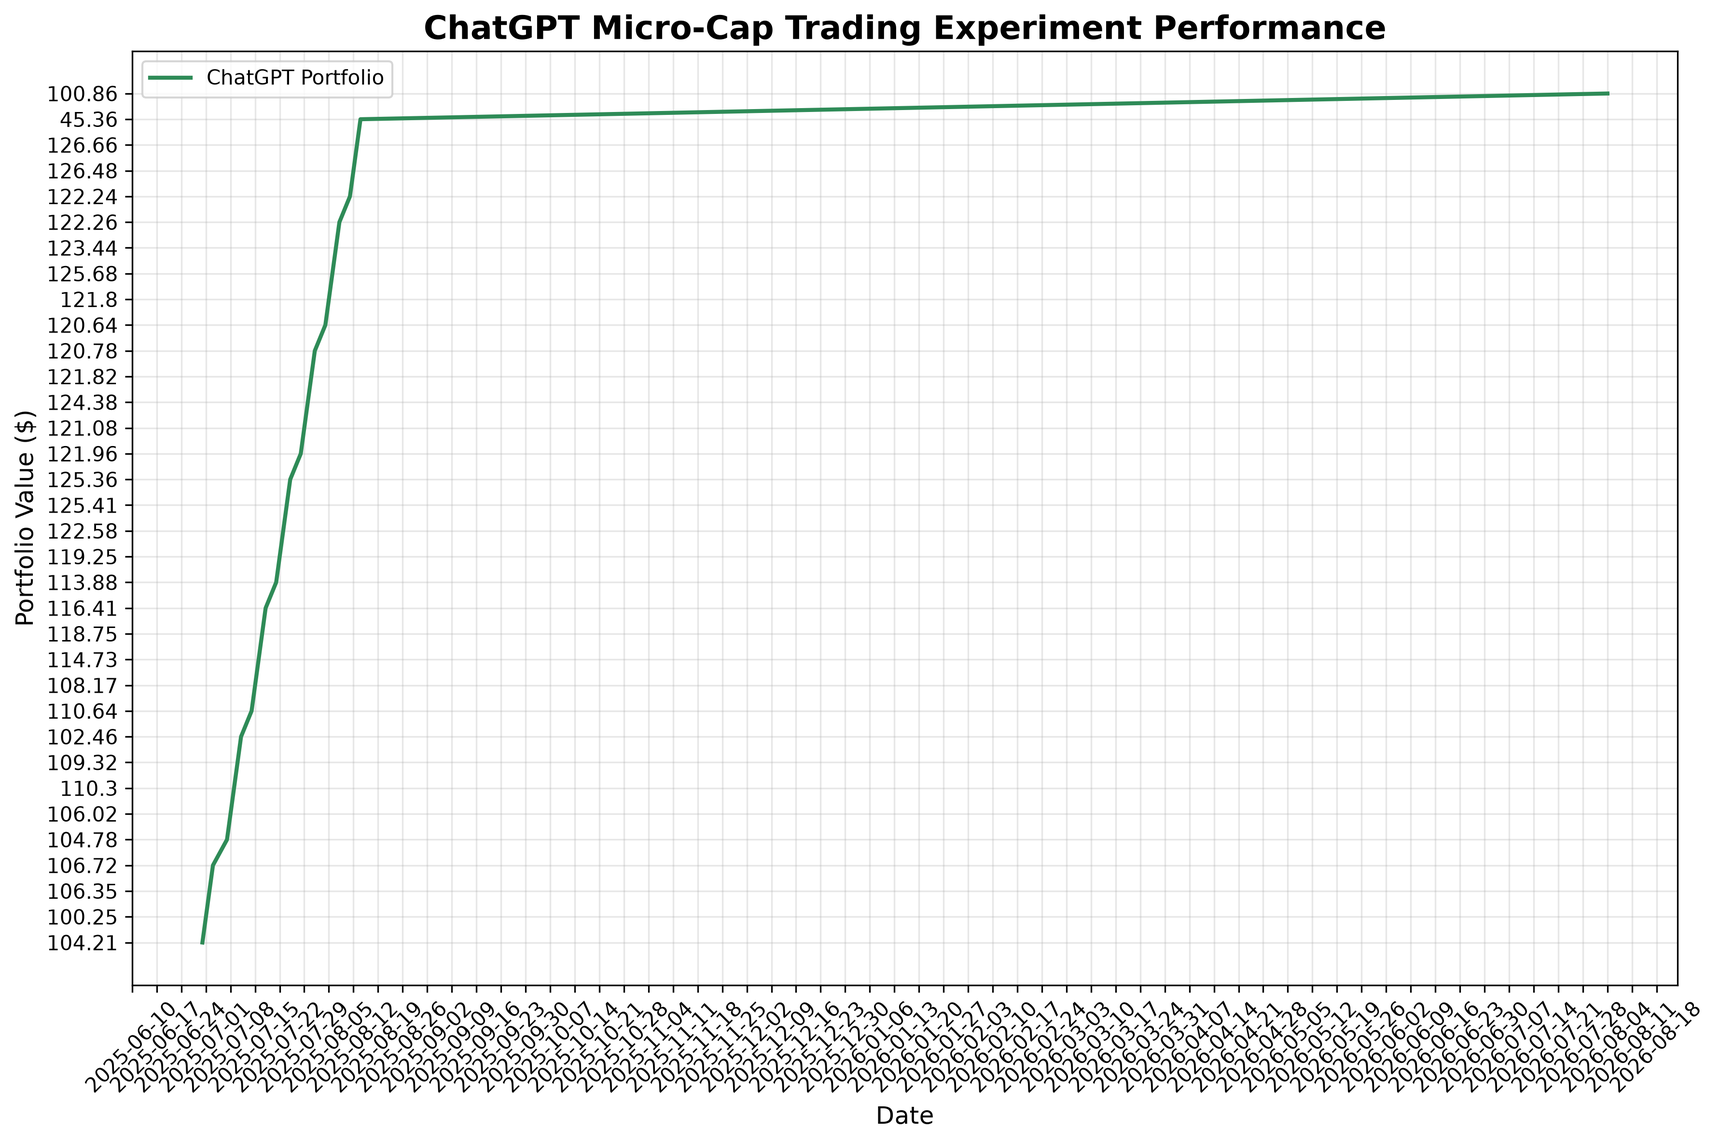
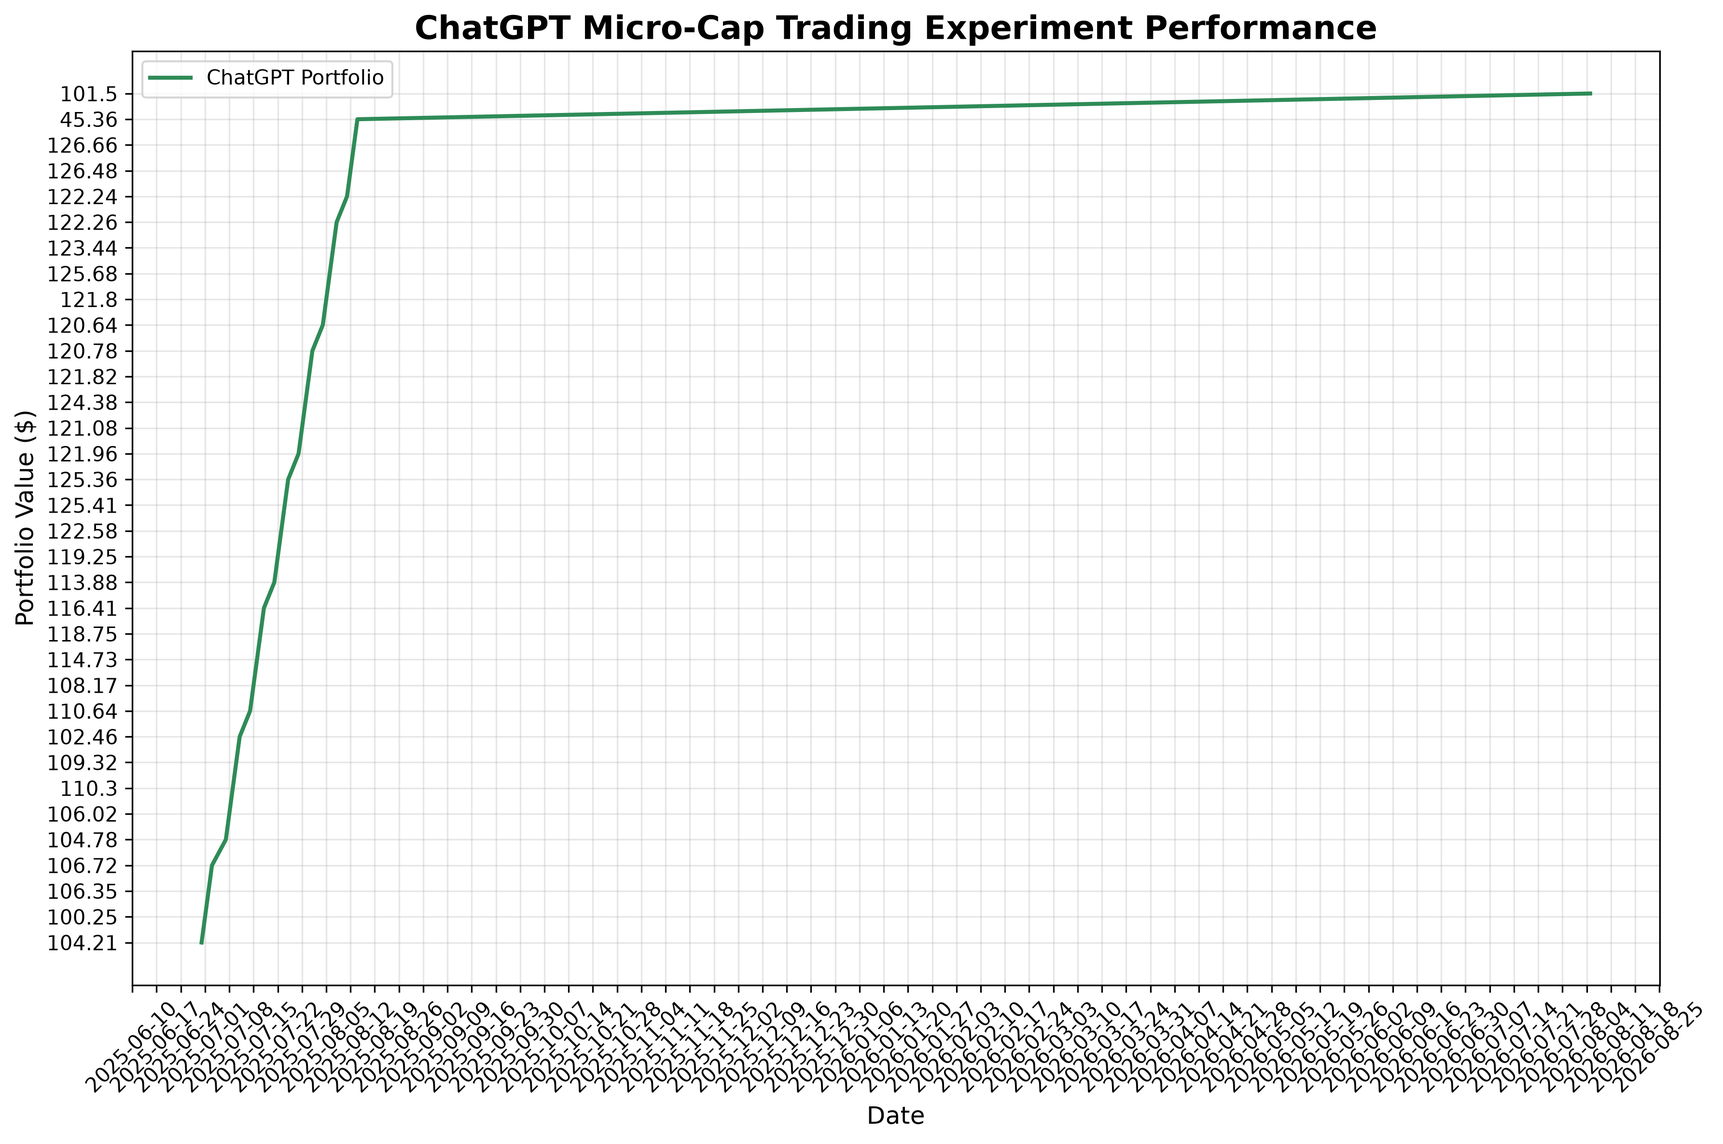
deploy: e15cad030d70fb3fbb51f9df6e22fa70c2f175c0

diff --git a/index.html b/index.html
@@ -105,7 +105,7 @@
                 <div class="stat-label">Total Trades</div>
             </div>
             <div class="stat-card">
-                <div class="stat-value" id="last-updated">2026-08-04</div>
+                <div class="stat-value" id="last-updated">2026-08-05</div>
                 <div class="stat-label">Last Updated</div>
             </div>
         </div>
@@ -160,8 +160,8 @@
     
     <script>
         // Portfolio data
-        const portfolioData = JSON.parse("[{&quot;Date&quot;: &quot;2025-08-11&quot;, &quot;Ticker&quot;: &quot;ABEO&quot;, &quot;Shares&quot;: 4.0, &quot;Buy Price&quot;: 5.77, &quot;Cost Basis&quot;: 23.08, &quot;Stop Loss&quot;: 4.9, &quot;Current Price&quot;: 6.28, &quot;Total Value&quot;: 25.12, &quot;PnL&quot;: 2.04, &quot;Action&quot;: &quot;HOLD&quot;, &quot;Cash Balance&quot;: NaN, &quot;Total Equity&quot;: NaN}, {&quot;Date&quot;: &quot;2025-08-11&quot;, &quot;Ticker&quot;: &quot;ACTU&quot;, &quot;Shares&quot;: 6.0, &quot;Buy Price&quot;: 5.75, &quot;Cost Basis&quot;: 34.5, &quot;Stop Loss&quot;: 4.89, &quot;Current Price&quot;: 8.01, &quot;Total Value&quot;: 48.06, &quot;PnL&quot;: 13.56, &quot;Action&quot;: &quot;HOLD&quot;, &quot;Cash Balance&quot;: NaN, &quot;Total Equity&quot;: NaN}, {&quot;Date&quot;: &quot;2025-08-11&quot;, &quot;Ticker&quot;: &quot;ESPR&quot;, &quot;Shares&quot;: 2.0, &quot;Buy Price&quot;: 1.91, &quot;Cost Basis&quot;: 3.82, &quot;Stop Loss&quot;: 1.6, &quot;Current Price&quot;: 1.85, &quot;Total Value&quot;: 3.7, &quot;PnL&quot;: -0.12, &quot;Action&quot;: &quot;HOLD&quot;, &quot;Cash Balance&quot;: NaN, &quot;Total Equity&quot;: NaN}, {&quot;Date&quot;: &quot;2025-08-11&quot;, &quot;Ticker&quot;: &quot;TOTAL&quot;, &quot;Shares&quot;: NaN, &quot;Buy Price&quot;: NaN, &quot;Cost Basis&quot;: NaN, &quot;Stop Loss&quot;: NaN, &quot;Current Price&quot;: NaN, &quot;Total Value&quot;: 76.88, &quot;PnL&quot;: 15.48, &quot;Action&quot;: NaN, &quot;Cash Balance&quot;: 45.36, &quot;Total Equity&quot;: &quot;122.24&quot;}, {&quot;Date&quot;: &quot;2025-08-12&quot;, &quot;Ticker&quot;: &quot;ABEO&quot;, &quot;Shares&quot;: 4.0, &quot;Buy Price&quot;: 5.77, &quot;Cost Basis&quot;: 23.08, &quot;Stop Loss&quot;: 4.9, &quot;Current Price&quot;: 6.38, &quot;Total Value&quot;: 25.52, &quot;PnL&quot;: 2.44, &quot;Action&quot;: &quot;HOLD&quot;, &quot;Cash Balance&quot;: NaN, &quot;Total Equity&quot;: NaN}, {&quot;Date&quot;: &quot;2025-08-12&quot;, &quot;Ticker&quot;: &quot;ACTU&quot;, &quot;Shares&quot;: 6.0, &quot;Buy Price&quot;: 5.75, &quot;Cost Basis&quot;: 34.5, &quot;Stop Loss&quot;: 4.89, &quot;Current Price&quot;: 8.67, &quot;Total Value&quot;: 52.02, &quot;PnL&quot;: 17.52, &quot;Action&quot;: &quot;HOLD&quot;, &quot;Cash Balance&quot;: NaN, &quot;Total Equity&quot;: NaN}, {&quot;Date&quot;: &quot;2025-08-12&quot;, &quot;Ticker&quot;: &quot;ESPR&quot;, &quot;Shares&quot;: 2.0, &quot;Buy Price&quot;: 1.91, &quot;Cost Basis&quot;: 3.82, &quot;Stop Loss&quot;: 1.6, &quot;Current Price&quot;: 1.79, &quot;Total Value&quot;: 3.58, &quot;PnL&quot;: -0.24, &quot;Action&quot;: &quot;HOLD&quot;, &quot;Cash Balance&quot;: NaN, &quot;Total Equity&quot;: NaN}, {&quot;Date&quot;: &quot;2025-08-12&quot;, &quot;Ticker&quot;: &quot;TOTAL&quot;, &quot;Shares&quot;: NaN, &quot;Buy Price&quot;: NaN, &quot;Cost Basis&quot;: NaN, &quot;Stop Loss&quot;: NaN, &quot;Current Price&quot;: NaN, &quot;Total Value&quot;: 81.12, &quot;PnL&quot;: 19.72, &quot;Action&quot;: NaN, &quot;Cash Balance&quot;: 45.36, &quot;Total Equity&quot;: &quot;126.48&quot;}, {&quot;Date&quot;: &quot;2025-08-13&quot;, &quot;Ticker&quot;: &quot;ABEO&quot;, &quot;Shares&quot;: 4.0, &quot;Buy Price&quot;: 5.77, &quot;Cost Basis&quot;: 23.08, &quot;Stop Loss&quot;: 4.9, &quot;Current Price&quot;: 6.56, &quot;Total Value&quot;: 26.24, &quot;PnL&quot;: 3.16, &quot;Action&quot;: &quot;HOLD&quot;, &quot;Cash Balance&quot;: NaN, &quot;Total Equity&quot;: NaN}, {&quot;Date&quot;: &quot;2025-08-13&quot;, &quot;Ticker&quot;: &quot;ACTU&quot;, &quot;Shares&quot;: 6.0, &quot;Buy Price&quot;: 5.75, &quot;Cost Basis&quot;: 34.5, &quot;Stop Loss&quot;: 4.89, &quot;Current Price&quot;: 8.53, &quot;Total Value&quot;: 51.18, &quot;PnL&quot;: 16.68, &quot;Action&quot;: &quot;HOLD&quot;, &quot;Cash Balance&quot;: NaN, &quot;Total Equity&quot;: NaN}, {&quot;Date&quot;: &quot;2025-08-13&quot;, &quot;Ticker&quot;: &quot;ESPR&quot;, &quot;Shares&quot;: 2.0, &quot;Buy Price&quot;: 1.91, &quot;Cost Basis&quot;: 3.82, &quot;Stop Loss&quot;: 1.6, &quot;Current Price&quot;: 1.94, &quot;Total Value&quot;: 3.88, &quot;PnL&quot;: 0.06, &quot;Action&quot;: &quot;HOLD&quot;, &quot;Cash Balance&quot;: NaN, &quot;Total Equity&quot;: NaN}, {&quot;Date&quot;: &quot;2025-08-13&quot;, &quot;Ticker&quot;: &quot;TOTAL&quot;, &quot;Shares&quot;: NaN, &quot;Buy Price&quot;: NaN, &quot;Cost Basis&quot;: NaN, &quot;Stop Loss&quot;: NaN, &quot;Current Price&quot;: NaN, &quot;Total Value&quot;: 81.3, &quot;PnL&quot;: 19.9, &quot;Action&quot;: NaN, &quot;Cash Balance&quot;: 45.36, &quot;Total Equity&quot;: &quot;126.66&quot;}, {&quot;Date&quot;: &quot;2025-08-14&quot;, &quot;Ticker&quot;: &quot;ABEO&quot;, &quot;Shares&quot;: 4.0, &quot;Buy Price&quot;: 5.77, &quot;Cost Basis&quot;: 23.08, &quot;Stop Loss&quot;: 4.9, &quot;Current Price&quot;: NaN, &quot;Total Value&quot;: NaN, &quot;PnL&quot;: NaN, &quot;Action&quot;: &quot;NO DATA&quot;, &quot;Cash Balance&quot;: NaN, &quot;Total Equity&quot;: NaN}, {&quot;Date&quot;: &quot;2025-08-14&quot;, &quot;Ticker&quot;: &quot;ACTU&quot;, &quot;Shares&quot;: 6.0, &quot;Buy Price&quot;: 5.75, &quot;Cost Basis&quot;: 34.5, &quot;Stop Loss&quot;: 4.89, &quot;Current Price&quot;: NaN, &quot;Total Value&quot;: NaN, &quot;PnL&quot;: NaN, &quot;Action&quot;: &quot;NO DATA&quot;, &quot;Cash Balance&quot;: NaN, &quot;Total Equity&quot;: NaN}, {&quot;Date&quot;: &quot;2025-08-14&quot;, &quot;Ticker&quot;: &quot;ESPR&quot;, &quot;Shares&quot;: 2.0, &quot;Buy Price&quot;: 1.91, &quot;Cost Basis&quot;: 3.82, &quot;Stop Loss&quot;: 1.6, &quot;Current Price&quot;: NaN, &quot;Total Value&quot;: NaN, &quot;PnL&quot;: NaN, &quot;Action&quot;: &quot;NO DATA&quot;, &quot;Cash Balance&quot;: NaN, &quot;Total Equity&quot;: NaN}, {&quot;Date&quot;: &quot;2025-08-14&quot;, &quot;Ticker&quot;: &quot;TOTAL&quot;, &quot;Shares&quot;: NaN, &quot;Buy Price&quot;: NaN, &quot;Cost Basis&quot;: NaN, &quot;Stop Loss&quot;: NaN, &quot;Current Price&quot;: NaN, &quot;Total Value&quot;: 0.0, &quot;PnL&quot;: 0.0, &quot;Action&quot;: NaN, &quot;Cash Balance&quot;: 45.36, &quot;Total Equity&quot;: &quot;45.36&quot;}, {&quot;Date&quot;: &quot;2026-08-04&quot;, &quot;Ticker&quot;: &quot;ABEO&quot;, &quot;Shares&quot;: 4.0, &quot;Buy Price&quot;: 5.77, &quot;Cost Basis&quot;: 23.08, &quot;Stop Loss&quot;: 4.9, &quot;Current Price&quot;: 6.54, &quot;Total Value&quot;: 26.16, &quot;PnL&quot;: 3.08, &quot;Action&quot;: &quot;HOLD&quot;, &quot;Cash Balance&quot;: NaN, &quot;Total Equity&quot;: NaN}, {&quot;Date&quot;: &quot;2026-08-04&quot;, &quot;Ticker&quot;: &quot;ACTU&quot;, &quot;Shares&quot;: 6.0, &quot;Buy Price&quot;: 5.75, &quot;Cost Basis&quot;: 34.5, &quot;Stop Loss&quot;: 4.89, &quot;Current Price&quot;: 4.89, &quot;Total Value&quot;: 29.34, &quot;PnL&quot;: -5.16, &quot;Action&quot;: &quot;SELL - Stop Loss Triggered&quot;, &quot;Cash Balance&quot;: NaN, &quot;Total Equity&quot;: NaN}, {&quot;Date&quot;: &quot;2026-08-04&quot;, &quot;Ticker&quot;: &quot;ESPR&quot;, &quot;Shares&quot;: 2.0, &quot;Buy Price&quot;: 1.91, &quot;Cost Basis&quot;: 3.82, &quot;Stop Loss&quot;: 1.6, &quot;Current Price&quot;: NaN, &quot;Total Value&quot;: NaN, &quot;PnL&quot;: NaN, &quot;Action&quot;: &quot;NO DATA&quot;, &quot;Cash Balance&quot;: NaN, &quot;Total Equity&quot;: NaN}, {&quot;Date&quot;: &quot;2026-08-04&quot;, &quot;Ticker&quot;: &quot;TOTAL&quot;, &quot;Shares&quot;: NaN, &quot;Buy Price&quot;: NaN, &quot;Cost Basis&quot;: NaN, &quot;Stop Loss&quot;: NaN, &quot;Current Price&quot;: NaN, &quot;Total Value&quot;: 26.16, &quot;PnL&quot;: 3.08, &quot;Action&quot;: NaN, &quot;Cash Balance&quot;: 74.7, &quot;Total Equity&quot;: &quot;100.86&quot;}]");
-        const tradeData = JSON.parse("[{&quot;Date&quot;: &quot;2025-07-08&quot;, &quot;Ticker&quot;: &quot;IINN&quot;, &quot;Shares Bought&quot;: 20.0, &quot;Buy Price&quot;: 1.5, &quot;Cost Basis&quot;: 30.0, &quot;PnL&quot;: 0.0, &quot;Reason&quot;: &quot;MANUAL BUY - New position&quot;, &quot;Shares Sold&quot;: NaN, &quot;Sell Price&quot;: NaN}, {&quot;Date&quot;: &quot;2025-07-21&quot;, &quot;Ticker&quot;: &quot;CADL&quot;, &quot;Shares Bought&quot;: NaN, &quot;Buy Price&quot;: NaN, &quot;Cost Basis&quot;: 25.2, &quot;PnL&quot;: 8.5, &quot;Reason&quot;: &quot;MANUAL SELL - GAIN CAPITAL FOR ACTU&quot;, &quot;Shares Sold&quot;: 5.0, &quot;Sell Price&quot;: 6.59}, {&quot;Date&quot;: &quot;2025-07-21&quot;, &quot;Ticker&quot;: &quot;ACTU&quot;, &quot;Shares Bought&quot;: 6.0, &quot;Buy Price&quot;: 5.75, &quot;Cost Basis&quot;: 34.5, &quot;PnL&quot;: 0.0, &quot;Reason&quot;: &quot;MANUAL BUY - New position&quot;, &quot;Shares Sold&quot;: NaN, &quot;Sell Price&quot;: NaN}, {&quot;Date&quot;: &quot;2025-07-28&quot;, &quot;Ticker&quot;: &quot;IINN&quot;, &quot;Shares Bought&quot;: NaN, &quot;Buy Price&quot;: NaN, &quot;Cost Basis&quot;: 9.0, &quot;PnL&quot;: -0.5400000000000009, &quot;Reason&quot;: &quot;MANUAL SELL - POSITION REDUCTION&quot;, &quot;Shares Sold&quot;: 6.0, &quot;Sell Price&quot;: 1.41}, {&quot;Date&quot;: &quot;2025-07-29&quot;, &quot;Ticker&quot;: &quot;AZTR&quot;, &quot;Shares Bought&quot;: NaN, &quot;Buy Price&quot;: NaN, &quot;Cost Basis&quot;: 13.75, &quot;PnL&quot;: -2.75, &quot;Reason&quot;: &quot;MANUAL SELL - DILUTION RISK&quot;, &quot;Shares Sold&quot;: 55.0, &quot;Sell Price&quot;: 0.2}, {&quot;Date&quot;: &quot;2025-08-01&quot;, &quot;Ticker&quot;: &quot;IINN&quot;, &quot;Shares Bought&quot;: 2.0, &quot;Buy Price&quot;: 1.74, &quot;Cost Basis&quot;: 3.48, &quot;PnL&quot;: 0.0, &quot;Reason&quot;: &quot;MANUAL BUY - New position&quot;, &quot;Shares Sold&quot;: NaN, &quot;Sell Price&quot;: NaN}, {&quot;Date&quot;: &quot;2025-08-01&quot;, &quot;Ticker&quot;: &quot;ABEO&quot;, &quot;Shares Bought&quot;: NaN, &quot;Buy Price&quot;: NaN, &quot;Cost Basis&quot;: 11.54, &quot;PnL&quot;: 1.200000000000001, &quot;Reason&quot;: &quot;MANUAL SELL - TRIM AFTER SUPPORT LOSS&quot;, &quot;Shares Sold&quot;: 2.0, &quot;Sell Price&quot;: 6.37}, {&quot;Date&quot;: &quot;2025-08-07&quot;, &quot;Ticker&quot;: &quot;ESPR&quot;, &quot;Shares Bought&quot;: 2.0, &quot;Buy Price&quot;: 1.91, &quot;Cost Basis&quot;: 3.82, &quot;PnL&quot;: 0.0, &quot;Reason&quot;: &quot;MANUAL BUY - New position&quot;, &quot;Shares Sold&quot;: NaN, &quot;Sell Price&quot;: NaN}, {&quot;Date&quot;: &quot;2025-08-08&quot;, &quot;Ticker&quot;: &quot;IINN&quot;, &quot;Shares Bought&quot;: NaN, &quot;Buy Price&quot;: NaN, &quot;Cost Basis&quot;: 1.5, &quot;PnL&quot;: -6.4, &quot;Reason&quot;: &quot;AUTOMATED SELL - STOPLOSS TRIGGERED&quot;, &quot;Shares Sold&quot;: 16.0, &quot;Sell Price&quot;: 1.1}, {&quot;Date&quot;: &quot;2026-08-04&quot;, &quot;Ticker&quot;: &quot;ACTU&quot;, &quot;Shares Bought&quot;: NaN, &quot;Buy Price&quot;: NaN, &quot;Cost Basis&quot;: 5.75, &quot;PnL&quot;: -5.16, &quot;Reason&quot;: &quot;AUTOMATED SELL - STOPLOSS TRIGGERED&quot;, &quot;Shares Sold&quot;: 6.0, &quot;Sell Price&quot;: 4.89}]");
+        const portfolioData = JSON.parse("[{&quot;Date&quot;: &quot;2025-08-11&quot;, &quot;Ticker&quot;: &quot;ABEO&quot;, &quot;Shares&quot;: 4.0, &quot;Buy Price&quot;: 5.77, &quot;Cost Basis&quot;: 23.08, &quot;Stop Loss&quot;: 4.9, &quot;Current Price&quot;: 6.28, &quot;Total Value&quot;: 25.12, &quot;PnL&quot;: 2.04, &quot;Action&quot;: &quot;HOLD&quot;, &quot;Cash Balance&quot;: NaN, &quot;Total Equity&quot;: NaN}, {&quot;Date&quot;: &quot;2025-08-11&quot;, &quot;Ticker&quot;: &quot;ACTU&quot;, &quot;Shares&quot;: 6.0, &quot;Buy Price&quot;: 5.75, &quot;Cost Basis&quot;: 34.5, &quot;Stop Loss&quot;: 4.89, &quot;Current Price&quot;: 8.01, &quot;Total Value&quot;: 48.06, &quot;PnL&quot;: 13.56, &quot;Action&quot;: &quot;HOLD&quot;, &quot;Cash Balance&quot;: NaN, &quot;Total Equity&quot;: NaN}, {&quot;Date&quot;: &quot;2025-08-11&quot;, &quot;Ticker&quot;: &quot;ESPR&quot;, &quot;Shares&quot;: 2.0, &quot;Buy Price&quot;: 1.91, &quot;Cost Basis&quot;: 3.82, &quot;Stop Loss&quot;: 1.6, &quot;Current Price&quot;: 1.85, &quot;Total Value&quot;: 3.7, &quot;PnL&quot;: -0.12, &quot;Action&quot;: &quot;HOLD&quot;, &quot;Cash Balance&quot;: NaN, &quot;Total Equity&quot;: NaN}, {&quot;Date&quot;: &quot;2025-08-11&quot;, &quot;Ticker&quot;: &quot;TOTAL&quot;, &quot;Shares&quot;: NaN, &quot;Buy Price&quot;: NaN, &quot;Cost Basis&quot;: NaN, &quot;Stop Loss&quot;: NaN, &quot;Current Price&quot;: NaN, &quot;Total Value&quot;: 76.88, &quot;PnL&quot;: 15.48, &quot;Action&quot;: NaN, &quot;Cash Balance&quot;: 45.36, &quot;Total Equity&quot;: &quot;122.24&quot;}, {&quot;Date&quot;: &quot;2025-08-12&quot;, &quot;Ticker&quot;: &quot;ABEO&quot;, &quot;Shares&quot;: 4.0, &quot;Buy Price&quot;: 5.77, &quot;Cost Basis&quot;: 23.08, &quot;Stop Loss&quot;: 4.9, &quot;Current Price&quot;: 6.38, &quot;Total Value&quot;: 25.52, &quot;PnL&quot;: 2.44, &quot;Action&quot;: &quot;HOLD&quot;, &quot;Cash Balance&quot;: NaN, &quot;Total Equity&quot;: NaN}, {&quot;Date&quot;: &quot;2025-08-12&quot;, &quot;Ticker&quot;: &quot;ACTU&quot;, &quot;Shares&quot;: 6.0, &quot;Buy Price&quot;: 5.75, &quot;Cost Basis&quot;: 34.5, &quot;Stop Loss&quot;: 4.89, &quot;Current Price&quot;: 8.67, &quot;Total Value&quot;: 52.02, &quot;PnL&quot;: 17.52, &quot;Action&quot;: &quot;HOLD&quot;, &quot;Cash Balance&quot;: NaN, &quot;Total Equity&quot;: NaN}, {&quot;Date&quot;: &quot;2025-08-12&quot;, &quot;Ticker&quot;: &quot;ESPR&quot;, &quot;Shares&quot;: 2.0, &quot;Buy Price&quot;: 1.91, &quot;Cost Basis&quot;: 3.82, &quot;Stop Loss&quot;: 1.6, &quot;Current Price&quot;: 1.79, &quot;Total Value&quot;: 3.58, &quot;PnL&quot;: -0.24, &quot;Action&quot;: &quot;HOLD&quot;, &quot;Cash Balance&quot;: NaN, &quot;Total Equity&quot;: NaN}, {&quot;Date&quot;: &quot;2025-08-12&quot;, &quot;Ticker&quot;: &quot;TOTAL&quot;, &quot;Shares&quot;: NaN, &quot;Buy Price&quot;: NaN, &quot;Cost Basis&quot;: NaN, &quot;Stop Loss&quot;: NaN, &quot;Current Price&quot;: NaN, &quot;Total Value&quot;: 81.12, &quot;PnL&quot;: 19.72, &quot;Action&quot;: NaN, &quot;Cash Balance&quot;: 45.36, &quot;Total Equity&quot;: &quot;126.48&quot;}, {&quot;Date&quot;: &quot;2025-08-13&quot;, &quot;Ticker&quot;: &quot;ABEO&quot;, &quot;Shares&quot;: 4.0, &quot;Buy Price&quot;: 5.77, &quot;Cost Basis&quot;: 23.08, &quot;Stop Loss&quot;: 4.9, &quot;Current Price&quot;: 6.56, &quot;Total Value&quot;: 26.24, &quot;PnL&quot;: 3.16, &quot;Action&quot;: &quot;HOLD&quot;, &quot;Cash Balance&quot;: NaN, &quot;Total Equity&quot;: NaN}, {&quot;Date&quot;: &quot;2025-08-13&quot;, &quot;Ticker&quot;: &quot;ACTU&quot;, &quot;Shares&quot;: 6.0, &quot;Buy Price&quot;: 5.75, &quot;Cost Basis&quot;: 34.5, &quot;Stop Loss&quot;: 4.89, &quot;Current Price&quot;: 8.53, &quot;Total Value&quot;: 51.18, &quot;PnL&quot;: 16.68, &quot;Action&quot;: &quot;HOLD&quot;, &quot;Cash Balance&quot;: NaN, &quot;Total Equity&quot;: NaN}, {&quot;Date&quot;: &quot;2025-08-13&quot;, &quot;Ticker&quot;: &quot;ESPR&quot;, &quot;Shares&quot;: 2.0, &quot;Buy Price&quot;: 1.91, &quot;Cost Basis&quot;: 3.82, &quot;Stop Loss&quot;: 1.6, &quot;Current Price&quot;: 1.94, &quot;Total Value&quot;: 3.88, &quot;PnL&quot;: 0.06, &quot;Action&quot;: &quot;HOLD&quot;, &quot;Cash Balance&quot;: NaN, &quot;Total Equity&quot;: NaN}, {&quot;Date&quot;: &quot;2025-08-13&quot;, &quot;Ticker&quot;: &quot;TOTAL&quot;, &quot;Shares&quot;: NaN, &quot;Buy Price&quot;: NaN, &quot;Cost Basis&quot;: NaN, &quot;Stop Loss&quot;: NaN, &quot;Current Price&quot;: NaN, &quot;Total Value&quot;: 81.3, &quot;PnL&quot;: 19.9, &quot;Action&quot;: NaN, &quot;Cash Balance&quot;: 45.36, &quot;Total Equity&quot;: &quot;126.66&quot;}, {&quot;Date&quot;: &quot;2025-08-14&quot;, &quot;Ticker&quot;: &quot;ABEO&quot;, &quot;Shares&quot;: 4.0, &quot;Buy Price&quot;: 5.77, &quot;Cost Basis&quot;: 23.08, &quot;Stop Loss&quot;: 4.9, &quot;Current Price&quot;: NaN, &quot;Total Value&quot;: NaN, &quot;PnL&quot;: NaN, &quot;Action&quot;: &quot;NO DATA&quot;, &quot;Cash Balance&quot;: NaN, &quot;Total Equity&quot;: NaN}, {&quot;Date&quot;: &quot;2025-08-14&quot;, &quot;Ticker&quot;: &quot;ACTU&quot;, &quot;Shares&quot;: 6.0, &quot;Buy Price&quot;: 5.75, &quot;Cost Basis&quot;: 34.5, &quot;Stop Loss&quot;: 4.89, &quot;Current Price&quot;: NaN, &quot;Total Value&quot;: NaN, &quot;PnL&quot;: NaN, &quot;Action&quot;: &quot;NO DATA&quot;, &quot;Cash Balance&quot;: NaN, &quot;Total Equity&quot;: NaN}, {&quot;Date&quot;: &quot;2025-08-14&quot;, &quot;Ticker&quot;: &quot;ESPR&quot;, &quot;Shares&quot;: 2.0, &quot;Buy Price&quot;: 1.91, &quot;Cost Basis&quot;: 3.82, &quot;Stop Loss&quot;: 1.6, &quot;Current Price&quot;: NaN, &quot;Total Value&quot;: NaN, &quot;PnL&quot;: NaN, &quot;Action&quot;: &quot;NO DATA&quot;, &quot;Cash Balance&quot;: NaN, &quot;Total Equity&quot;: NaN}, {&quot;Date&quot;: &quot;2025-08-14&quot;, &quot;Ticker&quot;: &quot;TOTAL&quot;, &quot;Shares&quot;: NaN, &quot;Buy Price&quot;: NaN, &quot;Cost Basis&quot;: NaN, &quot;Stop Loss&quot;: NaN, &quot;Current Price&quot;: NaN, &quot;Total Value&quot;: 0.0, &quot;PnL&quot;: 0.0, &quot;Action&quot;: NaN, &quot;Cash Balance&quot;: 45.36, &quot;Total Equity&quot;: &quot;45.36&quot;}, {&quot;Date&quot;: &quot;2026-08-05&quot;, &quot;Ticker&quot;: &quot;ABEO&quot;, &quot;Shares&quot;: 4.0, &quot;Buy Price&quot;: 5.77, &quot;Cost Basis&quot;: 23.08, &quot;Stop Loss&quot;: 4.9, &quot;Current Price&quot;: 6.7, &quot;Total Value&quot;: 26.8, &quot;PnL&quot;: 3.72, &quot;Action&quot;: &quot;HOLD&quot;, &quot;Cash Balance&quot;: NaN, &quot;Total Equity&quot;: NaN}, {&quot;Date&quot;: &quot;2026-08-05&quot;, &quot;Ticker&quot;: &quot;ACTU&quot;, &quot;Shares&quot;: 6.0, &quot;Buy Price&quot;: 5.75, &quot;Cost Basis&quot;: 34.5, &quot;Stop Loss&quot;: 4.89, &quot;Current Price&quot;: 4.89, &quot;Total Value&quot;: 29.34, &quot;PnL&quot;: -5.16, &quot;Action&quot;: &quot;SELL - Stop Loss Triggered&quot;, &quot;Cash Balance&quot;: NaN, &quot;Total Equity&quot;: NaN}, {&quot;Date&quot;: &quot;2026-08-05&quot;, &quot;Ticker&quot;: &quot;ESPR&quot;, &quot;Shares&quot;: 2.0, &quot;Buy Price&quot;: 1.91, &quot;Cost Basis&quot;: 3.82, &quot;Stop Loss&quot;: 1.6, &quot;Current Price&quot;: NaN, &quot;Total Value&quot;: NaN, &quot;PnL&quot;: NaN, &quot;Action&quot;: &quot;NO DATA&quot;, &quot;Cash Balance&quot;: NaN, &quot;Total Equity&quot;: NaN}, {&quot;Date&quot;: &quot;2026-08-05&quot;, &quot;Ticker&quot;: &quot;TOTAL&quot;, &quot;Shares&quot;: NaN, &quot;Buy Price&quot;: NaN, &quot;Cost Basis&quot;: NaN, &quot;Stop Loss&quot;: NaN, &quot;Current Price&quot;: NaN, &quot;Total Value&quot;: 26.8, &quot;PnL&quot;: 3.72, &quot;Action&quot;: NaN, &quot;Cash Balance&quot;: 74.7, &quot;Total Equity&quot;: &quot;101.5&quot;}]");
+        const tradeData = JSON.parse("[{&quot;Date&quot;: &quot;2025-07-08&quot;, &quot;Ticker&quot;: &quot;IINN&quot;, &quot;Shares Bought&quot;: 20.0, &quot;Buy Price&quot;: 1.5, &quot;Cost Basis&quot;: 30.0, &quot;PnL&quot;: 0.0, &quot;Reason&quot;: &quot;MANUAL BUY - New position&quot;, &quot;Shares Sold&quot;: NaN, &quot;Sell Price&quot;: NaN}, {&quot;Date&quot;: &quot;2025-07-21&quot;, &quot;Ticker&quot;: &quot;CADL&quot;, &quot;Shares Bought&quot;: NaN, &quot;Buy Price&quot;: NaN, &quot;Cost Basis&quot;: 25.2, &quot;PnL&quot;: 8.5, &quot;Reason&quot;: &quot;MANUAL SELL - GAIN CAPITAL FOR ACTU&quot;, &quot;Shares Sold&quot;: 5.0, &quot;Sell Price&quot;: 6.59}, {&quot;Date&quot;: &quot;2025-07-21&quot;, &quot;Ticker&quot;: &quot;ACTU&quot;, &quot;Shares Bought&quot;: 6.0, &quot;Buy Price&quot;: 5.75, &quot;Cost Basis&quot;: 34.5, &quot;PnL&quot;: 0.0, &quot;Reason&quot;: &quot;MANUAL BUY - New position&quot;, &quot;Shares Sold&quot;: NaN, &quot;Sell Price&quot;: NaN}, {&quot;Date&quot;: &quot;2025-07-28&quot;, &quot;Ticker&quot;: &quot;IINN&quot;, &quot;Shares Bought&quot;: NaN, &quot;Buy Price&quot;: NaN, &quot;Cost Basis&quot;: 9.0, &quot;PnL&quot;: -0.5400000000000009, &quot;Reason&quot;: &quot;MANUAL SELL - POSITION REDUCTION&quot;, &quot;Shares Sold&quot;: 6.0, &quot;Sell Price&quot;: 1.41}, {&quot;Date&quot;: &quot;2025-07-29&quot;, &quot;Ticker&quot;: &quot;AZTR&quot;, &quot;Shares Bought&quot;: NaN, &quot;Buy Price&quot;: NaN, &quot;Cost Basis&quot;: 13.75, &quot;PnL&quot;: -2.75, &quot;Reason&quot;: &quot;MANUAL SELL - DILUTION RISK&quot;, &quot;Shares Sold&quot;: 55.0, &quot;Sell Price&quot;: 0.2}, {&quot;Date&quot;: &quot;2025-08-01&quot;, &quot;Ticker&quot;: &quot;IINN&quot;, &quot;Shares Bought&quot;: 2.0, &quot;Buy Price&quot;: 1.74, &quot;Cost Basis&quot;: 3.48, &quot;PnL&quot;: 0.0, &quot;Reason&quot;: &quot;MANUAL BUY - New position&quot;, &quot;Shares Sold&quot;: NaN, &quot;Sell Price&quot;: NaN}, {&quot;Date&quot;: &quot;2025-08-01&quot;, &quot;Ticker&quot;: &quot;ABEO&quot;, &quot;Shares Bought&quot;: NaN, &quot;Buy Price&quot;: NaN, &quot;Cost Basis&quot;: 11.54, &quot;PnL&quot;: 1.200000000000001, &quot;Reason&quot;: &quot;MANUAL SELL - TRIM AFTER SUPPORT LOSS&quot;, &quot;Shares Sold&quot;: 2.0, &quot;Sell Price&quot;: 6.37}, {&quot;Date&quot;: &quot;2025-08-07&quot;, &quot;Ticker&quot;: &quot;ESPR&quot;, &quot;Shares Bought&quot;: 2.0, &quot;Buy Price&quot;: 1.91, &quot;Cost Basis&quot;: 3.82, &quot;PnL&quot;: 0.0, &quot;Reason&quot;: &quot;MANUAL BUY - New position&quot;, &quot;Shares Sold&quot;: NaN, &quot;Sell Price&quot;: NaN}, {&quot;Date&quot;: &quot;2025-08-08&quot;, &quot;Ticker&quot;: &quot;IINN&quot;, &quot;Shares Bought&quot;: NaN, &quot;Buy Price&quot;: NaN, &quot;Cost Basis&quot;: 1.5, &quot;PnL&quot;: -6.4, &quot;Reason&quot;: &quot;AUTOMATED SELL - STOPLOSS TRIGGERED&quot;, &quot;Shares Sold&quot;: 16.0, &quot;Sell Price&quot;: 1.1}, {&quot;Date&quot;: &quot;2026-08-05&quot;, &quot;Ticker&quot;: &quot;ACTU&quot;, &quot;Shares Bought&quot;: NaN, &quot;Buy Price&quot;: NaN, &quot;Cost Basis&quot;: 5.75, &quot;PnL&quot;: -5.16, &quot;Reason&quot;: &quot;AUTOMATED SELL - STOPLOSS TRIGGERED&quot;, &quot;Shares Sold&quot;: 6.0, &quot;Sell Price&quot;: 4.89}]");
         
         // Update total equity
         if (portfolioData.length > 0) {
